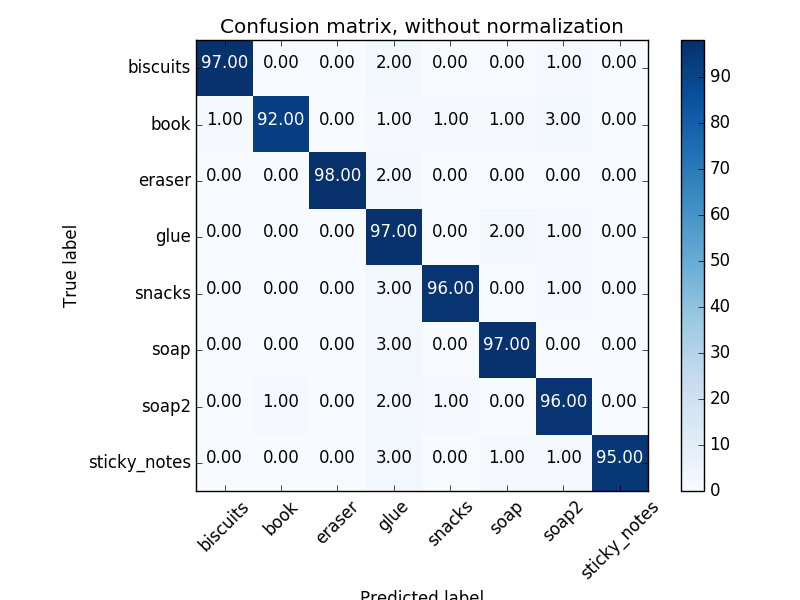
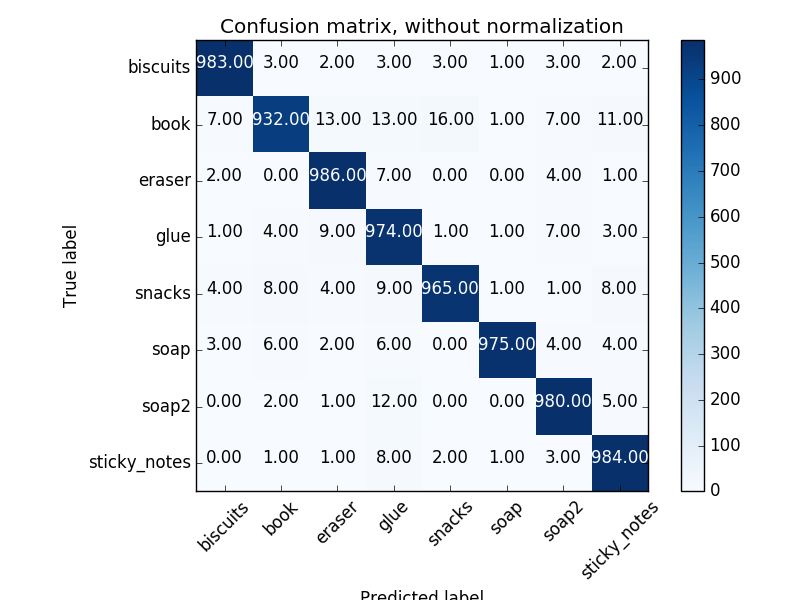
updates using correct binning for the surface normals

diff --git a/pr2_robot/scripts/features.py b/pr2_robot/scripts/features.py
@@ -34,9 +34,9 @@ def compute_color_histograms(cloud, using_hsv=False):
         channel_3_vals.append(color[2])
     
     # TODO: Compute histograms
-    channel_1_hist = np.histogram(channel_1_vals, bins=32, range=(0,256))
-    channel_2_hist = np.histogram(channel_2_vals, bins=32, range=(0,256))
-    channel_3_hist = np.histogram(channel_3_vals, bins=32, range=(0,256))
+    channel_1_hist = np.histogram(channel_1_vals, bins=64, range=(0,256))
+    channel_2_hist = np.histogram(channel_2_vals, bins=64, range=(0,256))
+    channel_3_hist = np.histogram(channel_3_vals, bins=64, range=(0,256))
 
     # TODO: Concatenate and normalize the histograms
     #print "channel_1_hist[0]: %s" % channel_1_hist[0]
@@ -56,19 +56,17 @@ def compute_normal_histograms(normal_cloud):
     for norm_component in pc2.read_points(normal_cloud,
                                           field_names = ('normal_x', 'normal_y', 'normal_z'),
                                           skip_nans=True):
+        #print "norm_component: %f %f %f" % (norm_component[0], norm_component[1], norm_component[2])
         norm_x_vals.append(norm_component[0])
         norm_y_vals.append(norm_component[1])
         norm_z_vals.append(norm_component[2])
 
     # TODO: Compute histograms of normal values (just like with color)
-    x_hist = np.histogram(norm_x_vals, bins=32, range=(0,256))
-    y_hist = np.histogram(norm_y_vals, bins=32, range=(0,256))
-    z_hist = np.histogram(norm_z_vals, bins=32, range=(0,256))
+    x_hist = np.histogram(norm_x_vals, bins=64, range=(-1,1))
+    y_hist = np.histogram(norm_y_vals, bins=64, range=(-1,1))
+    z_hist = np.histogram(norm_z_vals, bins=64, range=(-1,1))
 
     # TODO: Concatenate and normalize the histograms
     hist_features = np.concatenate((x_hist[0], y_hist[0], z_hist[0])).astype(np.float64)
-    # Generate random features for demo mode.  
-    # Replace normed_features with your feature vector
-    #normed_features = np.random.random(96)
     normed_features = hist_features / np.sum(hist_features)
     return normed_features

diff --git a/pr2_robot/scripts/project_template.py b/pr2_robot/scripts/project_template.py
@@ -6,8 +6,8 @@ import sklearn
 from sklearn.preprocessing import LabelEncoder
 import pickle
 from sensor_stick.srv import GetNormals
-from sensor_stick.features import compute_color_histograms
-from sensor_stick.features import compute_normal_histograms
+from features import compute_color_histograms
+from features import compute_normal_histograms
 from visualization_msgs.msg import Marker
 from sensor_stick.marker_tools import *
 from sensor_stick.msg import DetectedObjectsArray
@@ -70,7 +70,7 @@ def pcl_callback(pcl_msg):
     cloud = outlier_filter.filter()
 
     # TODO: Voxel Grid Downsampling
-    LEAF_SIZE = 0.01
+    LEAF_SIZE = 0.005
     #vox = cloud_filtered.make_voxel_grid_filter()
     vox = cloud.make_voxel_grid_filter()
     vox.set_leaf_size(LEAF_SIZE, LEAF_SIZE, LEAF_SIZE) 
@@ -176,13 +176,18 @@ def pcl_callback(pcl_msg):
         chists = compute_color_histograms(ros_cluster, using_hsv=True)
         normals = get_normals(ros_cluster)
         nhists = compute_normal_histograms(normals)
+        #print "%s" % nhists
         feature = np.concatenate((chists, nhists))
         #detected_objects_labels.append([feature, model_name])
 
         # Make the prediction, retrieve the label for the result
         # and add it to detected_objects_labels list
-        prediction = clf.predict(scaler.transform(feature.reshape(1,-1)))
+        input_features = scaler.transform(feature.reshape(1,-1))
+        prediction = clf.predict(input_features)
+        #prediction = clf.predict(scaler.transform(feature.reshape(1,-1)))
         print "prediction: %s" % str(prediction)
+        probabilities = clf.predict_proba(input_features)
+        print "probability predictions: %s" % str(probabilities)
         label = encoder.inverse_transform(prediction)[0]
         detected_objects_labels.append(label)
 

diff --git a/pr2_robot/scripts/capture_features.py b/pr2_robot/scripts/capture_features.py
@@ -40,7 +40,7 @@ if __name__ == '__main__':
     for model_name in models:
         spawn_model(model_name)
 
-        for i in range(100):
+        for i in range(1000):
             print "Showing %s i: %d" % (model_name, i)
             # make five attempts to get a valid a point cloud then give up
             sample_was_good = False

diff --git a/pr2_robot/scripts/train_svm.py b/pr2_robot/scripts/train_svm.py
@@ -62,7 +62,7 @@ encoder = LabelEncoder()
 y_train = encoder.fit_transform(y_train)
 
 # Create classifier
-clf = svm.SVC(kernel='linear')
+clf = svm.SVC(kernel='linear',probability=True)
 
 # Set up 5-fold cross-validation
 kf = cross_validation.KFold(len(X_train),
